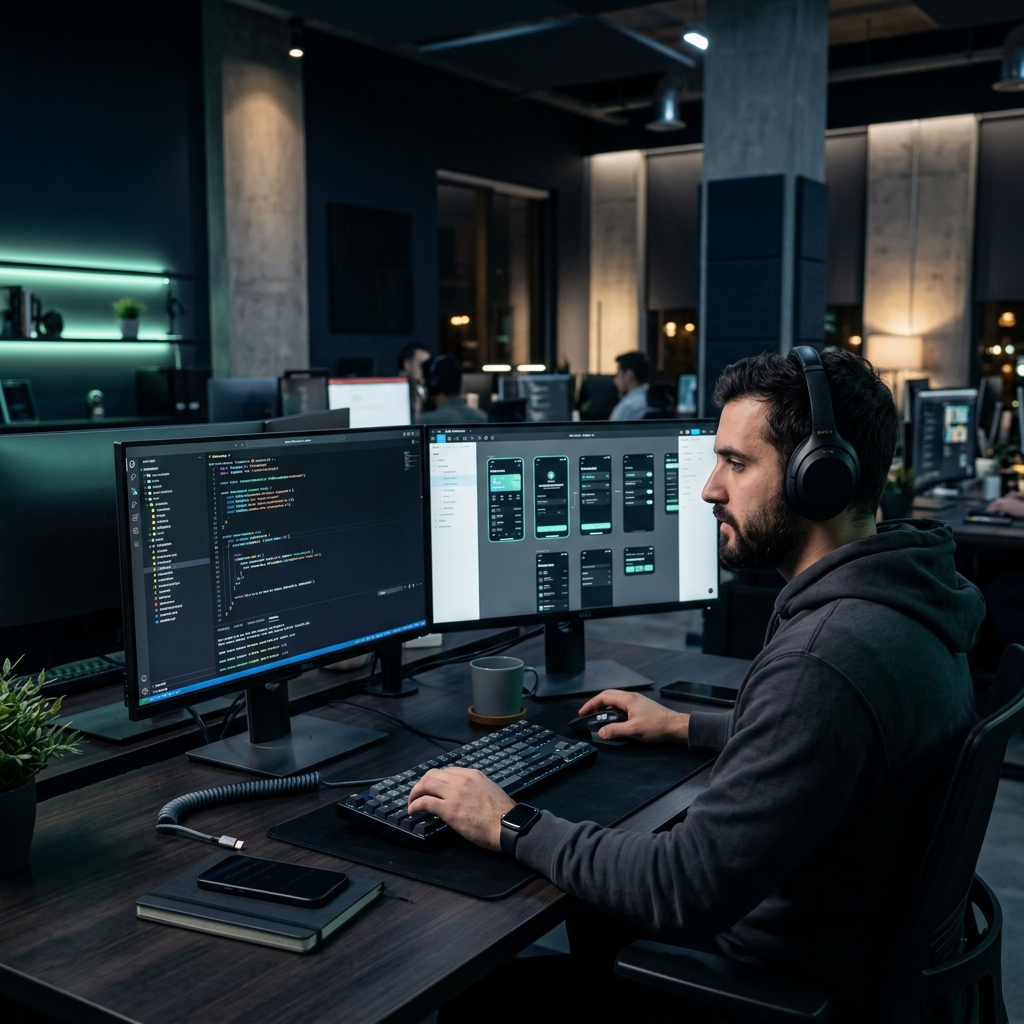
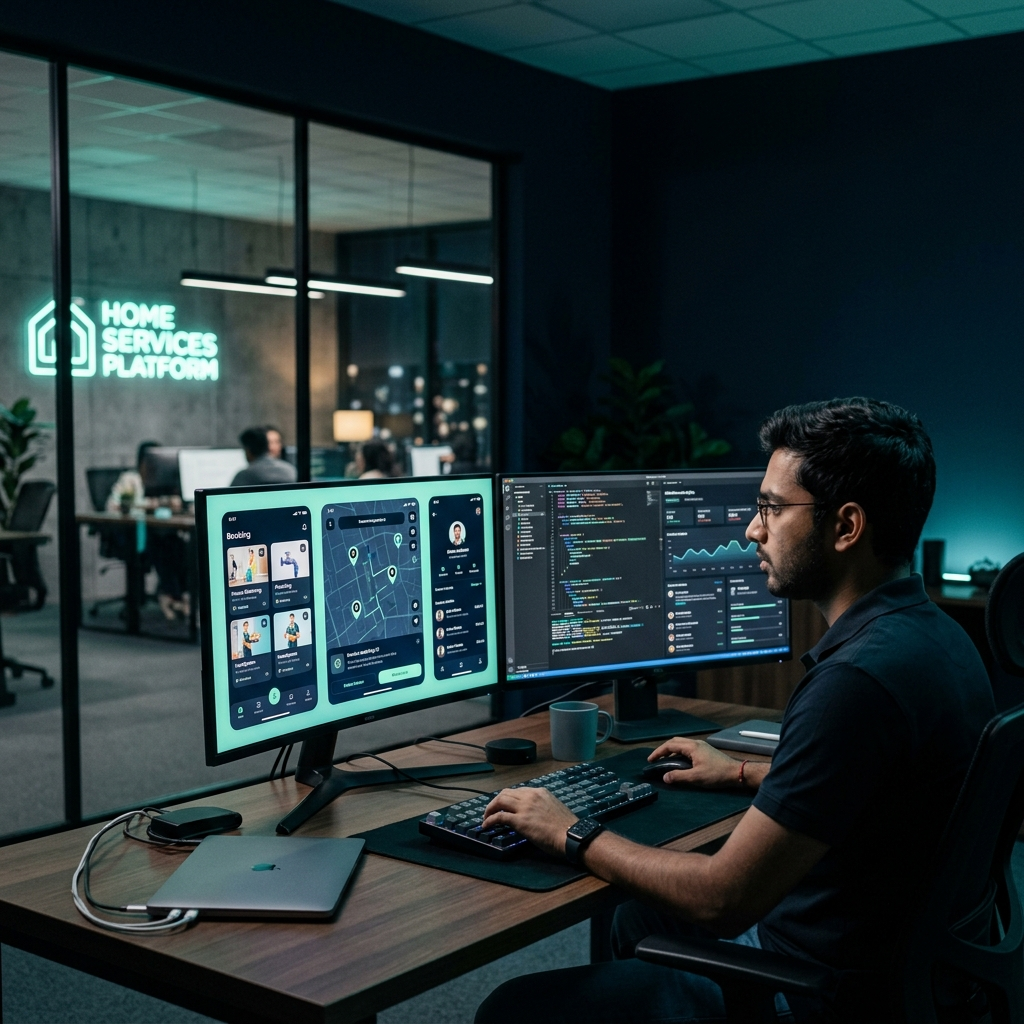
feat(frontend): replace team department card images with photorealistic WebP visuals

diff --git a/apps/frontend/src/components/about/OurTeam.tsx b/apps/frontend/src/components/about/OurTeam.tsx
@@ -67,8 +67,8 @@ const departments: TeamDepartment[] = [
     title: 'Operations & Strategy',
     subtitle: 'Partner Onboarding & Quality',
     description: 'Oversees provider vetting, background checks, and service guarantee compliance.',
-    image: '/images/team/team-operations.png',
-    altText: 'Operations team reviewing service quality and onboarding plans',
+    image: '/images/team/operations-strategy.webp',
+    altText: 'Service provider onboarding and quality verification',
     icon: TargetIcon,
   },
   {
@@ -76,8 +76,8 @@ const departments: TeamDepartment[] = [
     title: 'Engineering & Product',
     subtitle: 'Platform Infrastructure',
     description: 'Builds real-time matching algorithms, mobile apps, and secure booking engines.',
-    image: '/images/team/team-engineering.png',
-    altText: 'Software engineer working on the All Care Mint service platform',
+    image: '/images/team/engineering-product.webp',
+    altText: 'Engineering team working on the All care mint booking platform',
     icon: CodeMonitorIcon,
   },
   {
@@ -85,8 +85,8 @@ const departments: TeamDepartment[] = [
     title: 'Customer Support',
     subtitle: 'Trust & Resident Advocacy',
     description: 'Ensures 24/7 resolution support for customers and service providers alike.',
-    image: '/images/team/team-support.png',
-    altText: 'Customer support representative assisting customers',
+    image: '/images/team/customer-support.webp',
+    altText: 'Customer support specialist resolving a home service booking',
     icon: HeadphonesIcon,
   },
 ];
